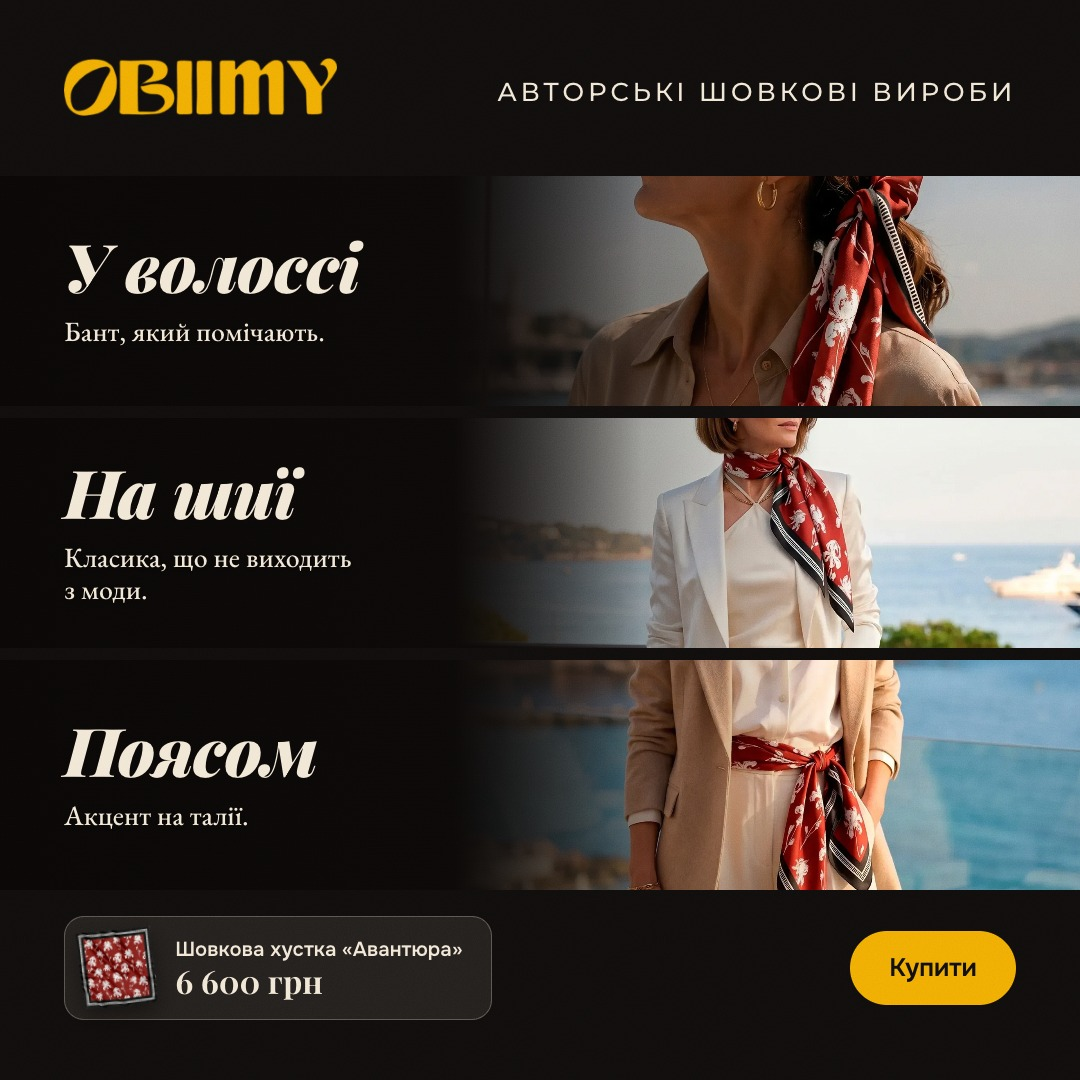
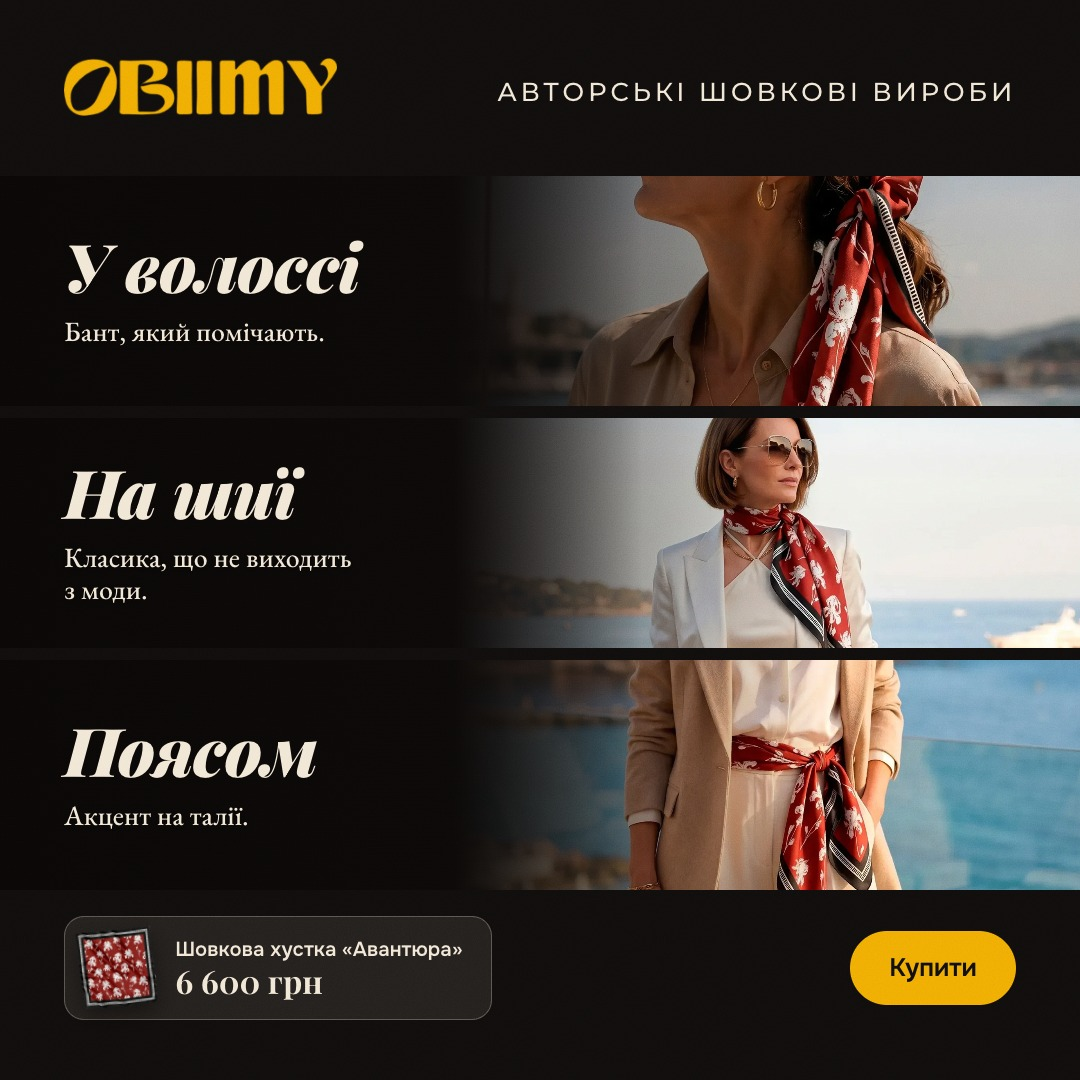
Creatives: «Одна хустка — три способи» — the «На шиї» band gets its own crop in story, feed and square so the knot is in the frame (client's note)

Changed region(s): [[0.4583, 0.3667, 1.0, 0.6111]]

diff --git a/site/creatives.html b/site/creatives.html
@@ -105,7 +105,7 @@ footer { margin-top: 72px; color: var(--ink2); font-size: .85rem; border-top: 1p
 <div class="fmt" role="group" aria-label="Формат банерів"><b>Формат:</b><button type="button" data-fmt="plain" aria-pressed="true">Банер 9:16</button><button type="button" data-fmt="story" aria-pressed="false">Сторіс · безпечна зона</button><button type="button" data-fmt="feed" aria-pressed="false">Стрічка 4:5</button><button type="button" data-fmt="square" aria-pressed="false">Квадрат 1:1</button><span class="fn" id="fmtn"></span><button type="button" id="zipall" class="zip" title="Усі формати всіх показаних банерів одним архівом">Завантажити все (ZIP)</button></div>
 
 <section class="grp flat"><div class="grid"><figure class="c st" data-f="st" data-id="solo-tri/t01-decades.jpg" data-plain="{&quot;f&quot;: &quot;creatives/solo-tri/t01-decades.jpg?v=5ddc2575&quot;, &quot;p&quot;: &quot;creatives/solo-tri/t01-decades-540.webp?v=5ddc2575&quot;, &quot;n&quot;: &quot;t01-decades.jpg&quot;, &quot;w&quot;: 540, &quot;h&quot;: 960}" data-alt="{&quot;story&quot;: {&quot;f&quot;: &quot;creatives/solo-tri/t01-decades-story.jpg?v=992465dd&quot;, &quot;p&quot;: &quot;creatives/solo-tri/t01-decades-story-540.webp?v=992465dd&quot;, &quot;n&quot;: &quot;t01-decades-story.jpg&quot;, &quot;w&quot;: 540, &quot;h&quot;: 960}, &quot;feed&quot;: {&quot;f&quot;: &quot;creatives/solo-tri/t01-decades-45.jpg?v=4184246b&quot;, &quot;p&quot;: &quot;creatives/solo-tri/t01-decades-45-540.webp?v=4184246b&quot;, &quot;n&quot;: &quot;t01-decades-45.jpg&quot;, &quot;w&quot;: 540, &quot;h&quot;: 675}, &quot;square&quot;: {&quot;f&quot;: &quot;creatives/solo-tri/t01-decades-1x1.jpg?v=073ab80b&quot;, &quot;p&quot;: &quot;creatives/solo-tri/t01-decades-1x1-540.webp?v=073ab80b&quot;, &quot;n&quot;: &quot;t01-decades-1x1.jpg&quot;, &quot;w&quot;: 540, &quot;h&quot;: 540}}"><a href="creatives/solo-tri/t01-decades.jpg?v=5ddc2575" target="_blank" rel="noopener"><img src="creatives/solo-tri/t01-decades-540.webp?v=5ddc2575" alt="Смуги-історії · варіант A" loading="lazy" width="540" height="960"></a>
-        <figcaption><label class="pick"><input type="checkbox" data-id="solo-tri/t01-decades.jpg"><span>Залишити</span></label><span class="fid">t01</span><a href="creatives/solo-tri/t01-decades.jpg?v=5ddc2575" download="t01-decades.jpg">JPG ↓</a></figcaption></figure><figure class="c st" data-f="st" data-id="solo-tri/t05-avantiura-ways.jpg" data-plain="{&quot;f&quot;: &quot;creatives/solo-tri/t05-avantiura-ways.jpg?v=55b422d6&quot;, &quot;p&quot;: &quot;creatives/solo-tri/t05-avantiura-ways-540.webp?v=55b422d6&quot;, &quot;n&quot;: &quot;t05-avantiura-ways.jpg&quot;, &quot;w&quot;: 540, &quot;h&quot;: 960}" data-alt="{&quot;story&quot;: {&quot;f&quot;: &quot;creatives/solo-tri/t05-avantiura-ways-story.jpg?v=fb4d1ad4&quot;, &quot;p&quot;: &quot;creatives/solo-tri/t05-avantiura-ways-story-540.webp?v=fb4d1ad4&quot;, &quot;n&quot;: &quot;t05-avantiura-ways-story.jpg&quot;, &quot;w&quot;: 540, &quot;h&quot;: 960}, &quot;feed&quot;: {&quot;f&quot;: &quot;creatives/solo-tri/t05-avantiura-ways-45.jpg?v=aa16475c&quot;, &quot;p&quot;: &quot;creatives/solo-tri/t05-avantiura-ways-45-540.webp?v=aa16475c&quot;, &quot;n&quot;: &quot;t05-avantiura-ways-45.jpg&quot;, &quot;w&quot;: 540, &quot;h&quot;: 675}, &quot;square&quot;: {&quot;f&quot;: &quot;creatives/solo-tri/t05-avantiura-ways-1x1.jpg?v=8cc792b5&quot;, &quot;p&quot;: &quot;creatives/solo-tri/t05-avantiura-ways-1x1-540.webp?v=8cc792b5&quot;, &quot;n&quot;: &quot;t05-avantiura-ways-1x1.jpg&quot;, &quot;w&quot;: 540, &quot;h&quot;: 540}}"><a href="creatives/solo-tri/t05-avantiura-ways.jpg?v=55b422d6" target="_blank" rel="noopener"><img src="creatives/solo-tri/t05-avantiura-ways-540.webp?v=55b422d6" alt="Смуги-історії · варіант A" loading="lazy" width="540" height="960"></a>
+        <figcaption><label class="pick"><input type="checkbox" data-id="solo-tri/t01-decades.jpg"><span>Залишити</span></label><span class="fid">t01</span><a href="creatives/solo-tri/t01-decades.jpg?v=5ddc2575" download="t01-decades.jpg">JPG ↓</a></figcaption></figure><figure class="c st" data-f="st" data-id="solo-tri/t05-avantiura-ways.jpg" data-plain="{&quot;f&quot;: &quot;creatives/solo-tri/t05-avantiura-ways.jpg?v=55b422d6&quot;, &quot;p&quot;: &quot;creatives/solo-tri/t05-avantiura-ways-540.webp?v=55b422d6&quot;, &quot;n&quot;: &quot;t05-avantiura-ways.jpg&quot;, &quot;w&quot;: 540, &quot;h&quot;: 960}" data-alt="{&quot;story&quot;: {&quot;f&quot;: &quot;creatives/solo-tri/t05-avantiura-ways-story.jpg?v=102acc27&quot;, &quot;p&quot;: &quot;creatives/solo-tri/t05-avantiura-ways-story-540.webp?v=102acc27&quot;, &quot;n&quot;: &quot;t05-avantiura-ways-story.jpg&quot;, &quot;w&quot;: 540, &quot;h&quot;: 960}, &quot;feed&quot;: {&quot;f&quot;: &quot;creatives/solo-tri/t05-avantiura-ways-45.jpg?v=cbe2ee77&quot;, &quot;p&quot;: &quot;creatives/solo-tri/t05-avantiura-ways-45-540.webp?v=cbe2ee77&quot;, &quot;n&quot;: &quot;t05-avantiura-ways-45.jpg&quot;, &quot;w&quot;: 540, &quot;h&quot;: 675}, &quot;square&quot;: {&quot;f&quot;: &quot;creatives/solo-tri/t05-avantiura-ways-1x1.jpg?v=7af2ee6d&quot;, &quot;p&quot;: &quot;creatives/solo-tri/t05-avantiura-ways-1x1-540.webp?v=7af2ee6d&quot;, &quot;n&quot;: &quot;t05-avantiura-ways-1x1.jpg&quot;, &quot;w&quot;: 540, &quot;h&quot;: 540}}"><a href="creatives/solo-tri/t05-avantiura-ways.jpg?v=55b422d6" target="_blank" rel="noopener"><img src="creatives/solo-tri/t05-avantiura-ways-540.webp?v=55b422d6" alt="Смуги-історії · варіант A" loading="lazy" width="540" height="960"></a>
         <figcaption><label class="pick"><input type="checkbox" data-id="solo-tri/t05-avantiura-ways.jpg"><span>Залишити</span></label><span class="fid">t05</span><a href="creatives/solo-tri/t05-avantiura-ways.jpg?v=55b422d6" download="t05-avantiura-ways.jpg">JPG ↓</a></figcaption></figure><figure class="c st" data-f="st" data-id="solo-main/p01-quiet-luxury.jpg" data-plain="{&quot;f&quot;: &quot;creatives/solo-main/p01-quiet-luxury.jpg?v=c234fc8a&quot;, &quot;p&quot;: &quot;creatives/solo-main/p01-quiet-luxury-540.webp?v=c234fc8a&quot;, &quot;n&quot;: &quot;p01-quiet-luxury.jpg&quot;, &quot;w&quot;: 540, &quot;h&quot;: 960}"><a href="creatives/solo-main/p01-quiet-luxury.jpg?v=c234fc8a" target="_blank" rel="noopener"><img src="creatives/solo-main/p01-quiet-luxury-540.webp?v=c234fc8a" alt="Варіант A · тихий преміум" loading="lazy" width="540" height="960"></a>
         <figcaption><label class="pick"><input type="checkbox" data-id="solo-main/p01-quiet-luxury.jpg"><span>Залишити</span></label><span class="fid">p01</span><a href="creatives/solo-main/p01-quiet-luxury.jpg?v=c234fc8a" download="p01-quiet-luxury.jpg">JPG ↓</a></figcaption></figure><figure class="c st" data-f="st" data-id="solo-main/p05-character.jpg" data-plain="{&quot;f&quot;: &quot;creatives/solo-main/p05-character.jpg?v=030c663a&quot;, &quot;p&quot;: &quot;creatives/solo-main/p05-character-540.webp?v=030c663a&quot;, &quot;n&quot;: &quot;p05-character.jpg&quot;, &quot;w&quot;: 540, &quot;h&quot;: 960}" data-alt="{&quot;story&quot;: {&quot;f&quot;: &quot;creatives/solo-main/p05-character-story.jpg?v=eed94415&quot;, &quot;p&quot;: &quot;creatives/solo-main/p05-character-story-540.webp?v=eed94415&quot;, &quot;n&quot;: &quot;p05-character-story.jpg&quot;, &quot;w&quot;: 540, &quot;h&quot;: 960}, &quot;feed&quot;: {&quot;f&quot;: &quot;creatives/solo-main/p05-character-45.jpg?v=49041a0a&quot;, &quot;p&quot;: &quot;creatives/solo-main/p05-character-45-540.webp?v=49041a0a&quot;, &quot;n&quot;: &quot;p05-character-45.jpg&quot;, &quot;w&quot;: 540, &quot;h&quot;: 675}, &quot;square&quot;: {&quot;f&quot;: &quot;creatives/solo-main/p05-character-1x1.jpg?v=e0087e64&quot;, &quot;p&quot;: &quot;creatives/solo-main/p05-character-1x1-540.webp?v=e0087e64&quot;, &quot;n&quot;: &quot;p05-character-1x1.jpg&quot;, &quot;w&quot;: 540, &quot;h&quot;: 540}}"><a href="creatives/solo-main/p05-character.jpg?v=030c663a" target="_blank" rel="noopener"><img src="creatives/solo-main/p05-character-540.webp?v=030c663a" alt="Варіант A · тихий преміум" loading="lazy" width="540" height="960"></a>
         <figcaption><label class="pick"><input type="checkbox" data-id="solo-main/p05-character.jpg"><span>Залишити</span></label><span class="fid">p05</span><a href="creatives/solo-main/p05-character.jpg?v=030c663a" download="p05-character.jpg">JPG ↓</a></figcaption></figure><figure class="c st" data-f="st" data-id="solo-main/p06-noticed.jpg" data-plain="{&quot;f&quot;: &quot;creatives/solo-main/p06-noticed.jpg?v=22dc43d3&quot;, &quot;p&quot;: &quot;creatives/solo-main/p06-noticed-540.webp?v=22dc43d3&quot;, &quot;n&quot;: &quot;p06-noticed.jpg&quot;, &quot;w&quot;: 540, &quot;h&quot;: 960}" data-alt="{&quot;story&quot;: {&quot;f&quot;: &quot;creatives/solo-main/p06-noticed-story.jpg?v=67901893&quot;, &quot;p&quot;: &quot;creatives/solo-main/p06-noticed-story-540.webp?v=67901893&quot;, &quot;n&quot;: &quot;p06-noticed-story.jpg&quot;, &quot;w&quot;: 540, &quot;h&quot;: 960}, &quot;feed&quot;: {&quot;f&quot;: &quot;creatives/solo-main/p06-noticed-45.jpg?v=e0c1b71b&quot;, &quot;p&quot;: &quot;creatives/solo-main/p06-noticed-45-540.webp?v=e0c1b71b&quot;, &quot;n&quot;: &quot;p06-noticed-45.jpg&quot;, &quot;w&quot;: 540, &quot;h&quot;: 675}, &quot;square&quot;: {&quot;f&quot;: &quot;creatives/solo-main/p06-noticed-1x1.jpg?v=aa799925&quot;, &quot;p&quot;: &quot;creatives/solo-main/p06-noticed-1x1-540.webp?v=aa799925&quot;, &quot;n&quot;: &quot;p06-noticed-1x1.jpg&quot;, &quot;w&quot;: 540, &quot;h&quot;: 540}}"><a href="creatives/solo-main/p06-noticed.jpg?v=22dc43d3" target="_blank" rel="noopener"><img src="creatives/solo-main/p06-noticed-540.webp?v=22dc43d3" alt="Варіант A · тихий преміум" loading="lazy" width="540" height="960"></a>

diff --git a/ads/solo/solo6-square.html b/ads/solo/solo6-square.html
@@ -99,7 +99,7 @@ body { margin: 0; background: #555; font-family: 'Onest', Arial, sans-serif; -we
   
   <div class="band" style="top:176px;height:230px"><img src="src/avantiura-88-5.webp" alt="" style="object-position:50% 47%;;width:58%;margin-left:auto;-webkit-mask-image:linear-gradient(90deg,transparent 0,#000 30%);mask-image:linear-gradient(90deg,transparent 0,#000 30%)"><div class="veil"></div>
     <div class="txt" style="width:434px"><p class="big" style="font-size:67.19999999999999px">У волоссі</p><p class="small" style="font-size:28.0px;max-width:480px;margin-top:18.2px">Бант, який помічають.</p></div></div>
-  <div class="band" style="top:418px;height:230px"><img src="src/avantiura-88-4.webp" alt="" style="object-position:50% 34%;;width:58%;margin-left:auto;-webkit-mask-image:linear-gradient(90deg,transparent 0,#000 30%);mask-image:linear-gradient(90deg,transparent 0,#000 30%)"><div class="veil"></div>
+  <div class="band" style="top:418px;height:230px"><img src="src/avantiura-88-4.webp" alt="" style="object-position:50% 20%;;width:58%;margin-left:auto;-webkit-mask-image:linear-gradient(90deg,transparent 0,#000 30%);mask-image:linear-gradient(90deg,transparent 0,#000 30%)"><div class="veil"></div>
     <div class="txt" style="width:434px"><p class="big" style="font-size:67.19999999999999px">На шиї</p><p class="small" style="font-size:28.0px;max-width:480px;margin-top:18.2px">Класика, що не виходить<br>з моди.</p></div></div>
   <div class="band" style="top:660px;height:230px"><img src="src/avantiura-88-2.webp" alt="" style="object-position:45% 77%;;width:58%;margin-left:auto;-webkit-mask-image:linear-gradient(90deg,transparent 0,#000 30%);mask-image:linear-gradient(90deg,transparent 0,#000 30%)"><div class="veil"></div>
     <div class="txt" style="width:434px"><p class="big" style="font-size:67.19999999999999px">Поясом</p><p class="small" style="font-size:28.0px;max-width:480px;margin-top:18.2px">Акцент на талії.</p></div></div>

diff --git a/ads/solo/solo6-story.html b/ads/solo/solo6-story.html
@@ -99,7 +99,7 @@ body { margin: 0; background: #555; font-family: 'Onest', Arial, sans-serif; -we
   
   <div class="band" style="top:368px;height:334px"><img src="src/avantiura-88-5.webp" alt="" style="object-position:50% 46%;;width:70%;margin-left:auto;-webkit-mask-image:linear-gradient(90deg,transparent 0,#000 30%);mask-image:linear-gradient(90deg,transparent 0,#000 30%)"><div class="veil"></div>
     <div class="txt" style="width:620px"><p class="big" style="font-size:96px">У волоссі</p><p class="small" style="font-size:40px;max-width:480px;margin-top:26px">Бант, який помічають.</p></div></div>
-  <div class="band" style="top:714px;height:334px"><img src="src/avantiura-88-4.webp" alt="" style="object-position:50% 37%;;width:125%;margin-left:120px;-webkit-mask-image:linear-gradient(90deg,transparent 0,#000 30%);mask-image:linear-gradient(90deg,transparent 0,#000 30%)"><div class="veil"></div>
+  <div class="band" style="top:714px;height:334px"><img src="src/avantiura-88-4.webp" alt="" style="object-position:50% 22%;;width:100%;margin-left:120px;-webkit-mask-image:linear-gradient(90deg,transparent 0,#000 30%);mask-image:linear-gradient(90deg,transparent 0,#000 30%)"><div class="veil"></div>
     <div class="txt" style="width:620px"><p class="big" style="font-size:96px">На шиї</p><p class="small" style="font-size:40px;max-width:480px;margin-top:26px">Класика, що не виходить<br>з моди.</p></div></div>
   <div class="band" style="top:1060px;height:334px"><img src="src/avantiura-88-2.webp" alt="" style="object-position:45% 73%;;width:112%"><div class="veil"></div>
     <div class="txt" style="width:620px"><p class="big" style="font-size:96px">Поясом</p><p class="small" style="font-size:40px;max-width:480px;margin-top:26px">Акцент на талії.</p></div></div>

diff --git a/ads/solo/solo6-feed.html b/ads/solo/solo6-feed.html
@@ -99,7 +99,7 @@ body { margin: 0; background: #555; font-family: 'Onest', Arial, sans-serif; -we
   
   <div class="band" style="top:176px;height:302px"><img src="src/avantiura-88-5.webp" alt="" style="object-position:50% 47%;;width:70%;margin-left:auto;-webkit-mask-image:linear-gradient(90deg,transparent 0,#000 30%);mask-image:linear-gradient(90deg,transparent 0,#000 30%)"><div class="veil"></div>
     <div class="txt" style="width:620px"><p class="big" style="font-size:96px">У волоссі</p><p class="small" style="font-size:40px;max-width:480px;margin-top:26px">Бант, який помічають.</p></div></div>
-  <div class="band" style="top:490px;height:302px"><img src="src/avantiura-88-4.webp" alt="" style="object-position:50% 37%;;width:125%;margin-left:120px;-webkit-mask-image:linear-gradient(90deg,transparent 0,#000 30%);mask-image:linear-gradient(90deg,transparent 0,#000 30%)"><div class="veil"></div>
+  <div class="band" style="top:490px;height:302px"><img src="src/avantiura-88-4.webp" alt="" style="object-position:50% 24%;;width:100%;margin-left:120px;-webkit-mask-image:linear-gradient(90deg,transparent 0,#000 30%);mask-image:linear-gradient(90deg,transparent 0,#000 30%)"><div class="veil"></div>
     <div class="txt" style="width:620px"><p class="big" style="font-size:96px">На шиї</p><p class="small" style="font-size:40px;max-width:480px;margin-top:26px">Класика, що не виходить<br>з моди.</p></div></div>
   <div class="band" style="top:804px;height:302px"><img src="src/avantiura-88-2.webp" alt="" style="object-position:45% 73%;;width:112%"><div class="veil"></div>
     <div class="txt" style="width:620px"><p class="big" style="font-size:96px">Поясом</p><p class="small" style="font-size:40px;max-width:480px;margin-top:26px">Акцент на талії.</p></div></div>

diff --git a/ads/solo/build6.py b/ads/solo/build6.py
@@ -104,6 +104,7 @@ def band(top, height, b, n=3):
     foc = extra.get("focus")    # where the scarf is in the frame (0 — top, 1 — bottom): in the short formats the band is cropped around it
     if FORMAT != "plain" and foc is not None and look != "spot" and not str(photo).startswith("url("):
         if FORMAT == "square": fit, wide = 58, None          # a narrower photo shows more of the figure in a 250 px band
+        foc = extra.get("sfocus", foc); wide = wide if FORMAT == "square" else extra.get("swide", wide)    # the short formats may want their own point and width
         wd = 1080 * ((fit or wide or 100) / 100)
         iw, ih = _Im.open(HERE / S(photo)).size; hd = max(wd * ih / iw, height)
         posy = min(1, max(0, (foc * hd - height / 2) / (hd - height))) * 100 if hd > height + 1 else 50
@@ -182,7 +183,7 @@ triptych("t04-flirt-three-ways", "Один принт — три образи", 
 
 triptych("t05-avantiura-ways", "Одна хустка — три способи", [
     ("avantiura-88-5", "50% 0%", "У волоссі", "Бант, який помічають.", "raw", {"size": 96, "fit": 70, "focus": .48}),
-    ("avantiura-88-4", "50% 6%", "На шиї", "Класика, що не виходить<br>з моди.", "raw", {"size": 96, "wide": 125, "dx": 120, "focus": .40}),
+    ("avantiura-88-4", "50% 6%", "На шиї", "Класика, що не виходить<br>з моди.", "raw", {"size": 96, "wide": 125, "dx": 120, "focus": .40, "sfocus": .31, "swide": 100}),
     ("avantiura-88-2", "45% 76%", "Поясом", "Акцент на талії.", "raw", {"size": 96, "wide": 112, "focus": .67}),
 ], "", (["avantiura-88-1"], "Шовкова хустка «Авантюра»", "6 600 грн"), "Купити", "Avantiura three ways", plain=True, logo_col="#F2B705")
 
